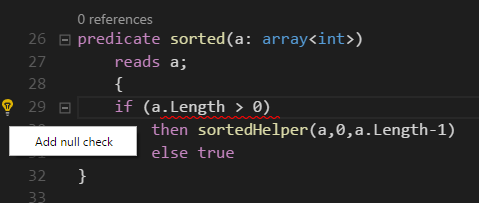
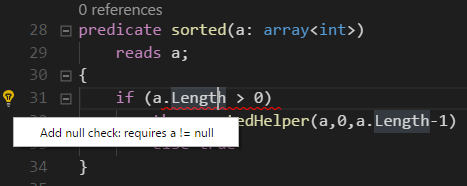
adressed Farhads points in his review

diff --git a/sections/contractgenerationexamples.tex b/sections/contractgenerationexamples.tex
@@ -52,7 +52,7 @@ Generate pre- and postconditions on methods which modify relevant fields, accord
 \paragraph{Code:}
 \begin{lstlisting}[language=dafny]
 class RawMaterial {
-	var abreasesMachines: bool;
+	var abrasesMachines: bool;
 }
 
 class NormalMachine {
@@ -67,7 +67,7 @@ class NormalMachine {
 		requires material != null
 	modifies this {
 		this.refineMatieral(material);
-		this.prestine := !material.abreasesMachines;
+		this.prestine := !material.abrasesMachines;
 	}
 }
 
@@ -83,15 +83,15 @@ class ExpensiveMachine {
 	
 	method processMaterial(material: RawMaterial) 
 		requires material != null
-		requires !material.abreasesMachines
+		requires !material.abrasesMachines
 		ensures prestine
 	modifies this {
 		this.refineMatieral(material);
-		this.prestine := !material.abreasesMachines;
+		this.prestine := !material.abrasesMachines;
 	}
 }
 \end{lstlisting}
-\subsection{Concepts in proof theory}
+\subsection{Important Concepts}
 All three examples have in common, that without the correct preconditions, they should result in proof obligations which cannot be proven.
 This subsection first details three common concepts that occur when reasoning about proof obligations. The next subsection sets them into connections with the problems mentioned in \ref{examples}.
 \subsubsection{Application of partial functions} \label{partial function}
@@ -103,26 +103,26 @@ One of the three problems can be expressed as the application of partial functio
 \end{itemize}
 The definition states that not all input values may be mapped by the function. The problem here therefore is to ensure that the function is applied on only a valid subset of A.
 \subsubsection{Invariants} \label{invariants}
-An Invariant can be defined as follows: A quantity which remains unchanged under certain classes of transformations. Invariants are extremely useful for classifying mathematical objects because they usually reflect intrinsic properties of the object of study.\cite[282ff]{hunt}\newline
-An Invariant is therefore extremely useful when one wants to ensure certain conditions of an object, which must hold at all times. If an invariant is to be applied to an object with multiple attributes, it is usually defined as a postcondition on all attributes. 
+An invariant can be defined as follows: A quantity which remains unchanged under certain classes of transformations. Invariants are extremely useful for classifying mathematical objects because they usually reflect intrinsic properties of the object of study.\cite[282ff]{hunt}\newline
+An invariant is therefore extremely useful when one wants to ensure certain conditions of an object, which must hold at all times. If an invariant is to be applied to an object with multiple attributes, it is usually defined as a postcondition on all attributes. 
 \subsubsection{Non provable Goals} \label{non provable goal}
 These are situations that are impossible to prove, because some postconditions do not hold or not sufficient information is available. They are very hard to detect and isolate from provable goals, although some work has found solutions under certain restrictions, for instance \cite{goals}. When an unprovable goal is encountered in a context, it is much easier to simply state it as a precondition for the context to be valid, thus burdening the calling context with ensuring that the goal holds. 
 \subsection{Concrete Application}
 This subsection finally shows how the patterns detailed above can be used to solve the programming examples, thus allowing generic solutions for many similar problems.
 \subsubsection{Resolving Bound checks}
-The situation shown in \ref{Example 1} is a very common situation while programming, basically one wants to prove that the index is always in the bounds of the array. Accessing an element in an array is an example of the \nameref{partial function}, where the set A only goes from zero to the length of the array minus one. Therefore one would have to prove that the application of the partial function does not result in an invalid element being given as an argument. The expression, which is used to get access, can be arbitrarily complex. The computation to ensure the in-boundness can be very expensive.  \newline
-Also the second pattern discussed in \nameref{invariants} could be applied, always ensuring that a given parameter is in bound of an array of an object, although this would not work with how invariants are normally applied, namely as postconditions. Since the expression that generates the index has nothing to do with the object itself, it is questionable if this is the right pattern to apply to this situation. \newline
-The third pattern, discussed in \nameref{non provable goal}, works very well if one assumes that it cannot be proven that the expression will always lead to a successful application of the partial function (although it could be proven in many cases). This allows to define this property as a precondition of the method, thus shifting the burden to the caller to always check his arguments. This is an easy and feasible solution to the first problem. 
+The situation shown in \ref{Example 1} is a very common situation while programming, basically one wants to prove that the index is always in the bounds of the array. Accessing an element in an array is an example of the \ref{partial function}, where the set A only goes from zero to the length of the array minus one. Therefore one would have to prove that the application of the partial function does not result in an invalid element being given as an argument. The expression, which is used to get access, can be arbitrarily complex. The computation to ensure the in-boundness can be very expensive.  \newline
+Also the second pattern discussed in \ref{invariants} could be applied, always ensuring that a given parameter is in bound of an array of an object, although this would not work with how invariants are normally applied, namely as postconditions. Since the expression that generates the index has nothing to do with the object itself, it is questionable if this is the right pattern to apply to this situation. \newline
+The third pattern, discussed in \ref{non provable goal}, works very well if one assumes that it cannot be proven that the expression will always lead to a successful application of the partial function (although it could be proven in many cases). This allows to define this property as a precondition of the method, thus shifting the burden to the caller to always check his arguments. This is an easy and feasible solution to the first problem. 
 \subsubsection{Enforcing Invariants} \label{Problem 2}
-The example in \ref{Example 2} is an example of a domain specific limitation where a bank account's balance should never fall below zero. In this specific implementation the usage of \nameref{partial function} could be discussed, since it is implemented as a binary minus function which only allows subtrahends from a certain range, although this approach could not be used for all possible implementations and is therefore not a feasible solution. \newline
-The second pattern discussed in \nameref{invariants} best describes the semantics of the situation in a very general way. It could simply be stated as an invariant, that the balance has always to be positive. This does not suffice though, as it does not isolate the parts yet which could break the invariant. \newline
-The third pattern, discussed in \nameref{non provable goal}, works very well in conjunction with the second one. All sub goals that should hold so that the invariant holds, in this case that the amount should be smaller than the balance, can be viewed as unprovable goals in this context. They can therefore be formulated as preconditions such that the caller has the burden of applying correct arguments to the function. This practice isolates the parts which could break the invariant, allowing to write the function as safe as possible.
+The example in \ref{Example 2} is an example of a domain specific limitation where a bank account's balance should never fall below zero. In this specific implementation the usage of \ref{partial function} could be discussed, since it is implemented as a binary minus function which only allows subtrahends from a certain range, although this approach could not be used for all possible implementations and is therefore not a feasible solution. \newline
+The second pattern discussed in \ref{invariants} best describes the semantics of the situation in a very general way. It could simply be stated as an invariant, that the balance has always to be positive. This does not suffice though, as it does not isolate the parts yet which could break the invariant. \newline
+The third pattern, discussed in \ref{non provable goal}, works very well in conjunction with the second one. All sub goals that should hold so that the invariant holds, in this case that the amount should be smaller than the balance, can be viewed as unprovable goals in this context. They can therefore be formulated as preconditions such that the caller has the burden of applying correct arguments to the function. This practice isolates the parts which could break the invariant, allowing to write the function as safe as possible.
 \subsubsection{Enforcing Complex Invariants}
-The example in \ref{Example 3} is also an example of a domain specific limitation, although more complex. It combines several classes together, which could also potentially be subtyped. The goal is to never let an expensive machine be subjected to abreason, therefore only allowing non-aggressive raw materials as input. In this specific implementation the usage of \nameref{partial function} could work very well, since the input set of the partial function is very small, namely only the value true on the abreasesMachines property of a raw material. However, if we extend the hierarchy of materials and implement the calculation of abreasesMachines differently, it is unclear if all cases could be computed efficiently. \newline
-The second pattern discussed in \nameref{invariants} best describes the semantics of the situation in a very general way. It could simply be stated as an Invariant, that the pristine property on the expensive machine is always true. This does not suffice though, as it does not isolate the parts yet which could break the invariant. This is the same situation as in \nameref{Problem 2} \newline
-The third pattern could be used much the same way as in \nameref{Problem 2}. The condition, that the raw material may never abrease machines, can be written as a precondition and together with the usage of invariants holds the greatest amount of security regarding the domain constraints.
+The example in \ref{Example 3} is also an example of a domain specific limitation, although more complex. It combines several classes together, which could also potentially be subtyped. The goal is to never let an expensive machine be subjected to abrasion, therefore only allowing non-aggressive raw materials as input. In this specific implementation the usage of \ref{partial function} could work very well, since the input set of the partial function is very small, namely only the value true on the abrasesMachines property of a raw material. However, if we extend the hierarchy of materials and implement the calculation of abrasesMachines differently, it is unclear if all cases could be computed efficiently. \newline
+The second pattern discussed in \ref{invariants} best describes the semantics of the situation in a very general way. It could simply be stated as an Invariant, that the pristine property on the expensive machine is always true. This does not suffice though, as it does not isolate the parts yet which could break the invariant. This is the same situation as in \ref{Problem 2} \newline
+The third pattern could be used much the same way as in \ref{Problem 2}. The condition, that the raw material may never abrease machines, can be written as a precondition and together with the usage of invariants holds the greatest amount of security regarding the domain constraints.
 \subsection{Conclusion}
-As the discussion above shows, all of the three problems can be solved through the application of \nameref{invariants} and \nameref{non provable goal}. They make it unnecessary to solve the problems of \nameref{partial function}, which is often harder to do. All occurrences, where such a computation would be needed, can be seen as non provable goals and stated as preconditions for a method. The usage of invariants offers a syntactical transparent way of describing domain specific rules, and the implementation is a relative simple one, as it is simply translated into postconditions for all methods of an object. Together these two techniques offer solutions to many different problems in computer science, since they operate on a high abstraction, while still being syntactical transparent.\newline 
+As the discussion above shows, all of the three problems can be solved through the application of \ref{invariants} and \ref{non provable goal}. They make it unnecessary to solve the problems of \ref{partial function}. All occurrences, where such a computation would be needed, can be seen as non provable goals and stated as preconditions for a method. The usage of invariants offers a syntactical transparent way of describing domain specific rules, and the implementation is a relative simple one, as it is simply translated into postconditions for all methods of an object. Together these two techniques offer solutions to many different problems in computer science, since they operate on a high abstraction, while still being syntactical transparent.\newline 
 In the first example, the language itself has enough domain knowledge in order to generate the unprovable proof obligations, since it knows about the array type and its restrictions. In the two other cases the language  needs more domain knowledge in order to generate the unprovable proof obligations. As was shown above, invariants are a good way of providing this domain knowledge.
 Once the unprovable proof obligations can be found, they can be used as hints for preconditions that can be suggested to the programmer.\newline
 The hardest part of the implementation is the identification of non provable subgoals that are in relation to an invariant. To do this, detailed knowledge has to be available of the control flow of a program and all possible outcomes of a computation have to be considered, although the problem can be relaxed if one allows for false positives in the identification of non provable subgoals. Since the plugin only offers refactorings and does not apply them automatically, the programmer still can decide if the setting of the non provable goal as precondition is necessary.  

diff --git a/sections/abstract.tex b/sections/abstract.tex
@@ -1,6 +1,12 @@
 \section{Abstract}
-The goal of this project is to integrate the Dafny programming language into Visual Studio Code. Emphasis is put into researching how Dafny programmers can be best supported during their work and how writing code can be made more productive.\newline 
-Since Dafny offers built-in specification constructs, novel work is to provide tooling that makes using them easier. The most beneficial feature would be to implement a generic, context aware proof obligation generator that continuously suggests specification constructs to the programmer. This approach was eventually discarded because it was deemed unfeasible to implement after some research had been done. Instead, situations were identified that arise often during programming and specific aid with specification constructs was implemented for them. Another helpful feature is the displaying of counter examples where code written does not satisfy the corresponding specification constructs, allowing quick discovery of edge cases and refinement of specification constructs.\newline 
-Next to language specific features, standard IDE mechanisms allow for great improvement regarding productivity. It was deemed paramount that the project implements the most common features such as go to definition and auto completion. This was achieved using the standard interfaces that Visual Studio Code provides, allowing programmers accessing these features in a well-established way.\newline
-It is of concern that new users can get started quickly, so that the user base continuous to grow. To support this, automatic installation on all major platforms was implemented. The installation resolves all dependencies such as the Dafny pipeline itself. To further maximize portability, the plugin implements the language server protocol. This allows for writing IDE agnostic language analysis platforms, making the plugin not only usable in Visual Studio Code, but integrable into some other IDEs with only minor adjustments.\newline
-This project concluded with the implementation of a production ready integration of Dafny into Visual Studio Code. The application of continuous integration allowed for a user base of about 300 people at the end of the project, proofing that the plugin is robust and works across multiple environments. Dafny programmers are supported in their coding not only with standard IDE mechanisms, but also Dafny specific features. Next to making the experience of programming more productive, this lays the foundation of a contentiously growing Dafny community.\newline
+The goal of this project was to integrate the Dafny programming language into Visual Studio Code. Emphasis was put into researching how Dafny programmers can be best supported during their work and how writing code can be made more productive.\newline 
+Since Dafny offers built-in specification constructs, novel work is to provide tooling that makes using them easier. The most beneficial feature would have been to implement a generic, context aware proof obligation generator that continuously suggests specification constructs to the programmer. This approach was eventually discarded because it was deemed unfeasible to implement after some research had been done. Instead, situations were identified that arise often during programming, for example bound checking, and specific aid with specification constructs was implemented for them. Another helpful feature is the displaying of counter examples where code written does not satisfy the corresponding specification constructs, allowing quick discovery of edge cases and refinement of specification constructs.\newline 
+Next to language specific features, standard IDE mechanisms allow for improvement regarding productivity. It was deemed paramount that the project implements the most common features such as go to definition and auto completion. This was achieved using the standard interfaces that Visual Studio Code provides, allowing programmers accessing these features in a well-established way.\newline
+It is of concern that new users can get started quickly, so that the user base continuous to grow. To support this, automatic installation on all major platforms was implemented. The installation resolves all dependencies such as the Dafny pipeline itself. To further maximize portability, the plugin implements the language server protocol. This allows for writing IDE agnostic language analysis platforms, making the plugin usable in Visual Studio Code, and also integrable into some other IDEs with only minor adjustments.\newline
+This project concluded with the implementation of a production ready integration of Dafny into Visual Studio Code. Continuous integration allowed for a user base of about 300 people at the end of the project, proofing that the plugin is robust and works across multiple environments. Dafny programmers are supported in their coding with standard IDE mechanisms and Dafny specific features. Next to making the experience of programming more productive, this lays the foundation of a contentiously growing Dafny community.\newline
+
+
+
+
+
+

diff --git a/sections/ides.tex b/sections/ides.tex
@@ -11,10 +11,10 @@ The better way would be to program a new Eclipse plugin, based on LSP4J, which t
 \subsubsection{Emacs integration}
 Emacs \cite{GNU} is a versatile IDE which enjoys great popularity especially in the open source community. Written in LISP, Emacs traditionally supported language integration via so called modes, which are demons that run in the background. This is already a similar architecture as used in a language server integration. \newline
 Work on integrating language servers into Emacs has already be done. The project emacs-lsp \cite{emacsLsp} aims to provide the connection between Emacs and language server. The project itself is structured as a classical Emacs demon and allows interactions with a language server. There already exist some integrable language servers in languages such as Java or Haskell. The integration of emacs-lsp and existing language servers seems to be pretty trivial, an example can be seen in \cite{javaEmacs} using Java. \newline
-Since the language server allows custom messages to be defined as detailed in the implementation documentation, the Dafny plugin defines some of them. One set of custom messages is necessary, since the plugin allows for downloading the Dafny compiler automatically. The communication in regard to this feature must be extended to the IDE, so that the user is aware of this feature. Additional custom components are the state of the file so that the programmer sees if it is verified or not, or the displacement of counter examples for proofs.\newline
+Since the language server allows custom messages to be defined as detailed in the implementation documentation, the Dafny plugin defines some of them. One set of custom messages is necessary, since the plugin allows for downloading the Dafny compiler automatically. The communication in regard to this feature must be extended to the IDE, so that the user is aware of this feature. Additional custom components are the state of the file so that the programmer sees if it is verified or not, or the displaying of counter examples for proofs.\newline
 These features were deemed very useful in this project, such that they should be a part of every IDE integration. This means that a little wrapper would have to be written on the client side of the language server, which understands the custom messages and can relay this information to the IDE itself. The work that has to be done is trivial, since it simply means to pass information on and display them accordingly. \newline
 It was decided that gaining a working knowledge of LISP and Emacs in order to write such a wrapper was not in the scope of this project. For a programmer familiar with Emacs and LISP this task should take no more than a week. The custom messages that need to be implemented can be found in the implementation documentation. It can be argued that this extension should be one of the first ones to be tackled by later work, as one can gain a considerably larger user base without having to invest too much work. 
 \subsubsection{Monaco integration}
-Monaco\cite{monaco} is the code editor that powers Visual Studio Code. It is also possible to use Monaco as a standalone editor in the browser. It would be intriguing to integrate Dafny directly into Monaco, since there are not many simpler setups imaginable as opening a browser window. It was therefore decided to look into a possible integration of the plugin during the course of this project. \newline
+Monaco\cite{monaco} is the code editor that powers Visual Studio Code. It is also possible to use Monaco as a standalone editor in the browser. It would be interesting to integrate Dafny directly into Monaco, since there are not many simpler setups imaginable as opening a browser window. It was therefore decided to look into a possible integration of the plugin during the course of this project. \newline
 It soon became apparent that the project does not seem very active, as the latest commit was two months old at the time of this writing. The documentation for developers is also very sparse. There was hope that an integration would be trivial, since the plugin is structured as a language server. However, Monaco does not implement the language server protocol. In the documentation, it can even be read that "Extensions written for Visual Studio Code will not run in Monaco"\cite{monaco}, without any further explanation given. \newline
 However, integrating a new language into Monaco is possible, as can be seen in an example for Typescript in  \cite{monacoType}. However, the setup is different than a language server integration or a Visual Studio Code plugin. It is questionable how much code could be shared. While the idea of running Dafny in an editor in the browser is interesting, the work that would have to be done in order to achieve this was deemed to be outside of the scope of this project. In addition, if further work aims to implement this integration, an evaluation on how active the work on Monaco is should be done first, given the apparent standstill in the project at the time of this writing.

diff --git a/sections/evaluation.tex b/sections/evaluation.tex
@@ -1,7 +1,7 @@
 \subsection{Evaluation}\label{evaluation}
-Following the comparison made in \ref{golrech}, it can safely be said that product developed during this project is at least en pair with most existing solutions. An automated setup of the entire environment which resolves dependencies on all major platforms guarantees that new users can make their first steps with Dafny without having to spend time to get things running. This is an important first stepping stone in making Dafny accessible for a wide user base. \newline
+Following the comparison made in \ref{golrech}, it can safely be said that product developed during this project is at least on a par with most existing solutions. An automated setup of the entire environment which resolves dependencies on all major platforms guarantees that new users can make their first steps with Dafny without having to spend time to get things running. This is an important first stepping stone in making Dafny accessible for a wide user base. \newline
 After having gotten Dafny to run on an environment, the next concern is to offer a productive, efficient and enjoyable programming experience. This keeps programmers using Dafny interested and keen on further using it. Having implemented many common IDE features as well as some Dafny specific functionality lets programmers apply work flows they have established with other languages as well as discovering the big benefits regarding functional correctness Dafny can offer. \newline
 Structuring the plugin as a language server decouples it from any particular IDE, although this project relied on Visual Studio Code as a reference IDE. This decoupling leads to the possibility to integrate Dafny into many other IDEs without having to duplicate any logic. This further lays the groundwork to support a wide user base as a programmer would not have to switch the IDE he has come used to for another one. \newline
-Offering generic contract generation sadly was established to be not feasible to implement in the scope of this project. During this research it was found that this problem probably also is unsolvable due to the proof pipeline that Dafny uses. Instead of offering generic generation, often arising situations were identified and aids provided for them.\newline
+Offering generic contract generation sadly was established to be not feasible to implement in the scope of this project. During this research it was found that this problem probably is very hard to solve because of the proof pipeline that Dafny uses. Instead of offering generic generation, often arising situations were identified and aids provided for them.\newline
 It was a major concern for this project to not just develop a proof of concept, but a production ready release of the plugin. Through the application of continuous integration feedback from users could be integrated early on. The plugin has been already downloaded over 300 times from all over the world at the time of this writing. It was also used in a course concentrating on software engineering at a school for higher education to get students familiar with contract based reasoning. During this, the plugin was used by about 60 students, underlining the robustness and platform independence of the solution. The minor changes that had to be made to the Dafny pipeline itself during this project have been accepted by Microsoft and are integrated into the official version of the pipeline. \newline
 The open source nature of this project encourages people to participate in enriching the plugin, as well as integrating it in additional IDEs. Close detail has been paid on keeping the documentation as well as the code quality at a high standard, so contributing should be possible without having to invest too much time to get started. It stands to hope that providing the plugin in the state it is at the end of this project is a big stepping stone in widening the user base that can profit from using Dafny. 

diff --git a/sections/managementSummary.tex b/sections/managementSummary.tex
@@ -1,5 +1,5 @@
 \section{Management Summary}
-Following the quickly growing digitalization of businesses and the therefore more complex applications being developed, two key points are gaining focus in today's IT landscape. The first one is the proven functional correctness of programs and the second one is the uprising of multi threaded applications. Writing multi threaded applications becomes much simpler once the functional correctness is proven, thus it can be stated that proven functional correctness is a stepping stone towards the easier implementation of parallelism. Dafny is a programming language which tries to move the focus of writing correct code towards writing correct specification constructs, which is often easier. Applying this concept consistently should result in being able to turn business requirements into correct working implementations quicker as with traditional languages. The proven correlation between the time of discovering an error and the cost of fixing it also strongly advises writing software which is proven correctly as early in the life cycle of the product as possible. Even though using Dafny in business is compelling for these reasons, its usage is still not widespread, something which this project tries to change.\newline
+Following the quickly growing digitalization of businesses and the therefore more complex applications being developed, two key points are gaining focus in today's IT landscape. The first one is the proven functional correctness of programs and the second one is that multi threaded applications are becoming more popular. Writing multi threaded applications becomes much simpler once the functional correctness is proven, thus it can be stated that proven functional correctness is a stepping stone towards the easier implementation of parallelism. Dafny is a programming language which tries to move the focus of writing correct code towards writing correct specification constructs, which is often easier. Applying this concept consistently should result in being able to turn business requirements into correct working implementations quicker as with traditional languages. The proven correlation between the time of discovering an error and the cost of fixing it also strongly advises writing software which is proven correctly as early in the life cycle of the product as possible. Even though using Dafny in business is compelling for these reasons, its usage is still not widespread, something which this project tries to change.\newline
 The wide spread usage of a tool for programmers is mainly dictated by two factors, namely the burden of getting it to run and the support that it is able to offer the programmer. \newline
 To address the first point, the plugin was developed for Visual Studio Code, an IDE running on all major platforms. It was also given an installation routine which resolves all dependencies on all platforms automatically after pressing one button. This also allows programmers that are not that familiar with the console to rapidly develop Dafny programs, something that was not possible given the tooling existing up until now. \newline
 Regarding the second point, it was always paramount to offer as much help as possible to the programmer. This was done in two steps, the first one being implementing standard features that a programmer is used to when working with an IDE, which could be achieved within this project. The second step are language specific features. To offer these, some research was done in what situations often arise when programming Dafny in order to reveal which features a programmer could most benefit from without solving all specification construct suggestions in a generic way. This pragmatic approach helped the project stay in scope while still offering rich help in many common programming contexts. \newline

diff --git a/sections/dafnyFeatures.tex b/sections/dafnyFeatures.tex
@@ -29,7 +29,7 @@ They also help writing correct specification constructs, which is not always eas
 \end{figure}
 As already detailed in the paragraph above, counter examples also often show edge cases that lead to a condition not being satisfied, a very important consideration when programming. These can then easily be taken care of appropriately by the programmer, either by changing the specification construct or the implementation. Without displaying this information, it is very difficult for the programmer to exactly find out how a condition is violated. \newline
 This project is the only solution that displays counter examples except for the Visual Studio integration, a feature which is probably the most important Dafny specific aid an IDE can provide. 
-\subsubsection{Null Checks}
+\subsubsection{Null Checks}\label{nullCheck}
 \paragraph{What are Null Checks}
 Null checks are specification constructs that take the form of a precondition that requires an object to be not null. They can be written whenever a new context is opened. Examples are when an object is given as an argument to a method, then the specification is a precondition to the whole method. Another one is when a object is declared, potentially not initialized and used in a later following while block. Then the precondition is written for the while block.\newline
 \begin{figure}[H]
@@ -67,7 +67,7 @@ The first precondition states that the expression used as an index must resolve 
 \paragraph{Why where they chosen to implement}
 Since Dafny has enough knowledge about the array data structure, it issues compilation errors every time an array is accessed without checking for its bounds first. While programming with Dafny, it was observed that this is the case in almost every non trivial example using arrays. Since the array data structure is used quite often in Dafny, it was decided to also help the programmer with this construct, since bound checking is important, but tedious.
 \paragraph{What benefits do they entail}
-Current solution do not support the automatic generation of bound checking. This task has to be performed very often and is tedious. Relieving the programmer of this repetitive work frees his mind for working on core functionality of a product. \newline
+Current solutions do not support the automatic generation of bound checking. This task has to be performed very often and is tedious. Relieving the programmer of this repetitive work frees his mind for working on core functionality of a product. \newline
 \begin{figure}[H]
 	\centering
 	\includegraphics[width=0.8\textwidth]{img/boundCheck}
@@ -106,8 +106,8 @@ This feature therefore allows the programmer to be more productive and concentra
 A existing feature in Boogie is to translate boogie programs into a flow graph. It does not only show the flow of the program itself but also includes all pre- and postconditions. Below is an example of a flowgraph, taken from the partition method of a quicksort algorithm.\newline  
 \begin{figure}[H]
 	\centering
-	\includegraphics[width=0.9\textwidth]{img/flowgraph}
-	\caption{Flow Graph of the partition method}
+	\includegraphics[width=0.4\textwidth]{img/flowgraph}
+	\caption{Flow Graph of the sorted predicate mentioned in \ref{nullCheck}}
 	\label{fig:flowgraph}
 \end{figure}
 \paragraph{Why were they chosen to implement}

diff --git a/sections/setup.tex b/sections/setup.tex
@@ -12,11 +12,11 @@ The protocol between these two components is standardized by Microsoft, with the
 	\label{fig:languageServer}
 \end{figure}
 \paragraph{Why were they chosen to implement}
-Since Dafny is already supported on different operation systems, it was decided to make the plugin as platform and IDE independent as possible. Because Visual Studio Code supports the Language Server Protocol and is the reference implementation, the existing plugin was refactored to work as a language server. The strict splitting of the plugin into a client and a server had also the benefit, that the architecture had to be changed, which resulted in a much better and clearer structure. \newline
+Since Dafny is already supported on different operation systems, it was decided to make the plugin as platform and IDE independent as possible. Because Visual Studio Code supports the Language Server Protocol and is the reference implementation, the plugin developed by Jonathan Rionatan was refactored to work as a language server. The strict splitting of the plugin into a client and a server had also the benefit, that the architecture had to be changed, which resulted in a much better and clearer structure. \newline
 In the future another IDE could just integrate the existing language server, make smaller tweaks to the client and it would work. No rewriting of the whole logic is needed, as one just can use the server, thanks to the standardized protocol. 
 \paragraph{What benefits do they entail}
 Developing the plugin as a language server has the big benefit, that it could be easily integrated into existing IDEs, which support the Language Server Protocol, without reprogramming everything. Supporting auto completion, go to definition, find all references, would just work, without writing a single line of code. The only step is to start the Language Server and connect to it. Only the client needs to be adjusted, depending on the requirements of how the GUI should look like and probably the programming language to developing the client will change. 
-See \ref{ides} for a overview of IDEs which were looked at and tried to be supported. 
+See \ref{ides} for a overview of IDEs which were looked at. 
 \subsubsection{Automatic Installation} \label{setupAutomaticInstallation}
 \paragraph{What is Automatic Installation}
 Automatic Installation is the process to setup the whole Dafny environment in the background. Downloading the latest release from GitHub, extract it and setting all necessary configuration properties correctly is its main task. This process is platform dependent, because there is a zip file for each operating system. 

diff --git a/sections/currsol.tex b/sections/currsol.tex
@@ -14,6 +14,6 @@ The existing solutions do a nice job in this area, if information of the plugins
 All existing solutions are hardwired to an existing IDE. This means that when a plugin is written for Visual Studio and one for Emacs, all features have to be copied and implemented anew. This makes it cumbersome to widen the user range of Dafny users. It also makes the process of updating plugins error prone and asymmetric, since changes have to be done in two places. \newline
 When looking at the process of programming a plugin in an abstract way, it comes down to integrating a semantic language analysis framework with an existing IDE. There have been several attempts to unify the way this integration is done, with Microsoft weighing in with a solution for this they call the language server protocol \cite{langserver}, which is quickly gaining traction. When this protocol matures and a solution is written in terms of such the protocol, one can offer plugins for many different IDEs while writing the core logic only once. There exists great potential in following this strategy. 
 \subsubsection{Feature Richness}
-Once solutions are installed and running, the most important thing is feature richness. Next to standard IDE features, which are a must and expected by programmers, language specific features are what really make a solution stand out. This especially is true for Dafny, since it offers an almost unique and very valuable approach to specification constructs. In this area, most existing solutions perform poorly. Of the very rich information about a program that Dafny provides, only a fractions is presented to the user. \newline
+Once solutions are installed and running, the most important thing is feature richness. Next to standard IDE features, which are a must and expected by programmers, language specific features are what really make a solution stand out. This especially is true for Dafny, since it offers an almost unique and very valuable approach to specification constructs. In this area, most existing solutions perform poorly. Of the very rich information about a program that Dafny provides, only a fraction is presented to the user. \newline
 A notable exception to this is the existing Visual Studio integration. It offers virtually all possibilities that Dafny provides in its GUI. It even integrates counter examples for failed proofs and a debugger. While most existing solutions do not provide many features, the Visual Studio integration is the example that new solutions should try to match regarding feature richness.
 

diff --git a/sections/languageAgnosticFeatures.tex b/sections/languageAgnosticFeatures.tex
@@ -12,7 +12,7 @@ CodeLenses in Visual Studio Code are a feature which is also common to many othe
 \end{figure}
 When given locations of the references, it is possible to let Visual Studio Code highlight them in the preview window which opens when a codeLens is expanded. Visual Studio Code also groups references according to the file path in the location, so the programmer gets to see a map of all references ordered by containing file to the right of the preview window and can quickly navigate to them.
 \paragraph{Why were they chosen to implement}
-Since codeLenses can be used to quickly gain a deeper understanding of a code base, it was decided to integrate this feature. Another reason was that it is widespread in different IDEs, so that programmers have become accosted to it. \newline
+Since codeLenses can be used to quickly gain a deeper understanding of a code base, it was decided to integrate this feature. Another reason was that it is widespread in different IDEs, so that programmers have become accustomed to it. \newline
 The first decision to be made was for which elements in the code codeLenses should be displayed. The trade off here is to  provide enough information to work comfortably with the code base and not to clutter the workspace with codeLenses. It was decided to display codeLenses for classes, methods (including constructors) and fields, since they tend to have a wide scope in the code bases \newline
 A second consideration was which information should be displayed in a codeLens. When codeLenses are language specific,  references and usages of the element are usually displayed. Since this allows the programmer to gain a deeper understanding of control flow and regions affected by refactoring, it was decided to display this information also for the Dafny plugin. CodeLenses also allow commands to be executed when clicked upon, a logical conclusion is to implement go to reference when a reference in a codeLens is clicked.\newline
 \begin{figure}[H]

diff --git a/sections/outline.tex b/sections/outline.tex
@@ -8,8 +8,8 @@ Microsoft would like to integrate Dafny into the cross-platform Visual Studio Co
 \subsubsection{Statement of the problem}
 This thesis aims to research on how Dafny programmers can be best supported during their work and incorporate these findings in a production quality plugin for Visual Studio Code. 
 \subsubsection{Significance of study}
-Standard programming techniques are beginning to show their limitations as multi-core and multi-threaded applications are becoming more and more popular, which are difficult and error prone.
+Standard programming techniques are beginning to show their limitations as multi-core and multi-threaded applications are becoming more and more popular, which are difficult and error prone. Functional correctness is of course also relevant in the absence of parallelism. 
 Proving functional correctness has the potential of helping the programmer construct reliable programs.
 Sadly, the use of this technology is not widespread yet. Providing better tool support has the potential of improving this situation. Here lies the significance of this project.
 \subsubsection{Scope and delimitation}
-The plugin is limited to be used in three defined environments, although they compromise a huge percentage of environments used in programming. The plugin offers a fixed set of features which are detailed in this thesis, but remains open for adaption and extension.
+The plugin is limited to be used in three defined environments, which compromise a huge percentage of environments used in programming. The plugin offers a fixed set of features which are detailed in this thesis, but remains open for adaption and extension.

diff --git a/sections/stepsTowardsMainGoal.tex b/sections/stepsTowardsMainGoal.tex
@@ -1,5 +1,5 @@
 \section{Results}
-This section details what steps were taken to reach the goal of this project as defined in \ref{mainGoal}. The steps are grouped into three parts, according to the objective they satisfy. They are listed in no particular order. The chapter details the features in a conceptual way, insight into the implementation can be found in the architecture documentation paper, which accompanies this paper. 
+This section details what steps were taken to reach the goal of this project as defined in \ref{mainGoal}. The steps are grouped into three parts, according to the objective they satisfy. They are listed in no particular order. The chapter details the features in a conceptual way, insight into the implementation can be found in the architecture documentation paper, which accompanies this thesis. 
 \input{sections/setup}
 \input{sections/languageAgnosticFeatures}
 \input{sections/dafnyFeatures}

diff --git a/main.tex b/main.tex
@@ -137,8 +137,8 @@
 \pagenumbering{Roman}
 \input{sections/projectmanagement}
 \input{sections/useCases}
-\input{sections/personalSummaries}
-\input{sections/acknowledment}
+%\input{sections/personalSummaries}
+%\input{sections/acknowledment}
 
 \appendix
 
